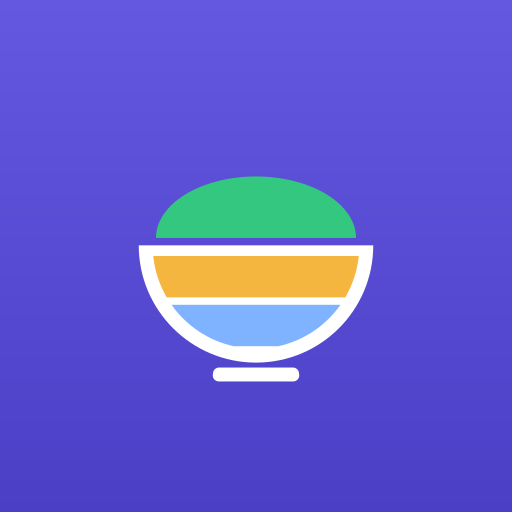
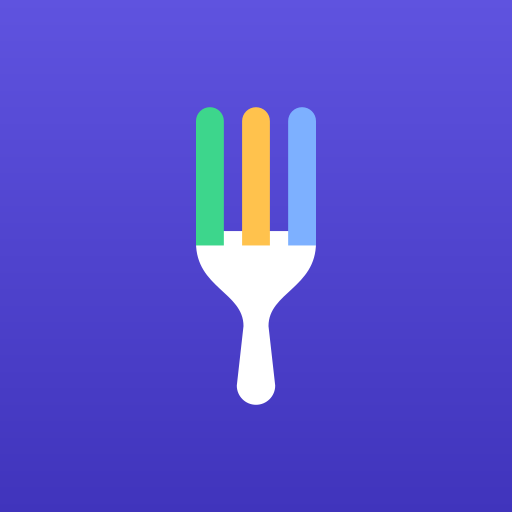
Ревизия 12: новая иконка (вилка с зубцами Б / Ж / У), виджеты 1×2 и 1×3
- Иконка: вилка, три зубца — цвета Б / Ж / У, белая на индиго; адаптивная иконка Android 8+ — векторные слои
  (bju_ic_fg / bju_ic_bg / bju_ic_mono) вместо картинок @capacitor/assets, которые лаунчер растягивал в 1,5 раза;
  монохромный слой того же размера, что цветной; векторы шаблона Capacitor удаляются; значок Android 6–7 скруглён
- Виджет 1×2: кольцо в слоте с весом (не обрезает строки при крупном шрифте), запас высоты — между блоками
- Виджет 1×3 и выше: своя раскладка v3 — подпись «осталось · из N» под кольцом, крупнее строки, отступы
  распределены равномерно вместо пустых полос сверху и снизу
- Тесты: tests/rev12.test.mjs, data.test.mjs (раскладка v3 и подпись)

Claude-Session: https://claude.ai/code/session_01U1xAriyLiBGtfoxjq7dSjT

Changed region(s): [[0.25, 0.1875, 0.75, 0.8125]]

diff --git a/native/android/BjuWidget.java b/native/android/BjuWidget.java
@@ -29,11 +29,12 @@ import java.util.Locale;
 import java.util.Map;
 
 /**
- * Виджет рабочего стола: БЖУ за сегодня. Девять раскладок под размер (ширина 1–4 × высота 1–2 ячейки):
- *   T1 1×1 — кольцо калорий (оно же — если виджет растянут в узкую высокую полоску: вытянутых раскладок нет);
+ * Виджет рабочего стола: БЖУ за сегодня. Раскладки под размер (ширина 1–4 × высота 1–2 ячейки и узкие высокие):
+ *   T1 1×1 — кольцо калорий на квадратной плашке;
  *   N2 2×1 — остаток калорий + Б / Ж / У строкой;   W3 3×1 — колонки «Осталось», Б, Ж, У с полосками;  W4 4×1 — то же + «＋»;
  *   S  2×2 — кольцо + Б / Ж / У + полоски;           M  3×2 и низкий 4×2 — шапка с «＋», кольцо, строки Б / Ж / У;
- *   L  высокий 4×2 — то же крупнее;                 Sx / Lx — увеличенные варианты, если лаунчер растянул виджет выше двух строк.
+ *   L  высокий 4×2 — то же крупнее;                 Sx / Lx — увеличенные варианты, если лаунчер растянул виджет выше двух строк;
+ *   V2 1×2 — кольцо и Б / Ж / У строками;          V3 1×3 и выше — то же с подписью под кольцом, строки крупнее.
  * Кольцо рисуется картинкой: размер числа считается от свободного места внутри, поэтому цифры не касаются кольца.
  * Цвета — из приложения: светлая и тёмная палитры сразу. При теме «Как в системе» на Android 12+ виджет
  * переключается вместе с телефоном сам (цвета «день / ночь» в RemoteViews), на старых — при каждом обновлении.
@@ -47,20 +48,22 @@ public class BjuWidget extends AppWidgetProvider {
     private static final int[] LAYOUT = {
         R.layout.bju_widget_t1, R.layout.bju_widget_n2, R.layout.bju_widget_w3, R.layout.bju_widget_w4,
         R.layout.bju_widget_s, R.layout.bju_widget_m, R.layout.bju_widget, R.layout.bju_widget_sx, R.layout.bju_widget_lx,
-        R.layout.bju_widget_v2
+        R.layout.bju_widget_v2, R.layout.bju_widget_v3
     };
-    // увеличенные варианты ведут себя как обычные; v2 (узкий высокий 1×2) — с Б / Ж / У, как 2×2
-    private static final int[] BASE = { 0, 1, 2, 3, 4, 5, 6, 4, 6, 4 };
+    // увеличенные варианты ведут себя как обычные; v2 (узкий высокий 1×2) и v3 (1×3 и выше) — с Б / Ж / У, как 2×2
+    private static final int[] BASE = { 0, 1, 2, 3, 4, 5, 6, 4, 6, 4, 4 };
     // минимальный размер (dp), с которого включается раскладка. Крупные (4×1 с «＋», высокая 4×2, увеличенная) — только
     // при полной ширине: в 3 колонки (≈270 dp) в них не помещались числа («Углев…», «съедено 28…»), там — средние раскладки
-    private static final float[][] MIN = { { 40, 40 }, { 95, 40 }, { 210, 40 }, { 290, 40 }, { 95, 115 }, { 240, 115 }, { 290, 165 }, { 95, 240 }, { 360, 240 }, { 40, 160 } };
+    private static final float[][] MIN = { { 40, 40 }, { 95, 40 }, { 210, 40 }, { 290, 40 }, { 95, 115 }, { 240, 115 }, { 290, 165 }, { 95, 240 }, { 360, 240 }, { 40, 160 }, { 40, 230 } };
     // кольцо: размер картинки (dp) и толщина линии; картинка масштабируется под место в разметке
-    private static final int[] RING = { 72, 0, 0, 0, 104, 92, 112, 132, 150, 64 };
+    private static final int[] RING = { 72, 0, 0, 0, 104, 92, 112, 132, 150, 64, 64 };
     // что есть в раскладке (по номеру раскладки): кольцо — RING > 0; колонка калорий, шапка с нормой «/ 200 г», полоски, «＋»
-    private static final boolean[] KCAL = { false, true, true, true, false, false, false, false, false, false };
-    private static final boolean[] HEAD = { false, false, false, false, false, true, true, false, true, false };
-    private static final boolean[] BARS = { false, false, true, true, true, true, true, true, true, true };
-    private static final boolean[] ADD = { false, false, false, true, false, true, true, false, true, false };
+    private static final boolean[] KCAL = { false, true, true, true, false, false, false, false, false, false, false };
+    private static final boolean[] HEAD = { false, false, false, false, false, true, true, false, true, false, false };
+    private static final boolean[] BARS = { false, false, true, true, true, true, true, true, true, true, true };
+    private static final boolean[] ADD = { false, false, false, true, false, true, true, false, true, false, false };
+    // подпись под кольцом («осталось» и «из 2920») — в высокой узкой раскладке, где в маленьком кольце подписи нет
+    private static final boolean[] CAP = { false, false, false, false, false, false, false, false, false, false, true };
 
     @Override
     public void onUpdate(Context ctx, AppWidgetManager mgr, int[] ids) {
@@ -242,6 +245,12 @@ public class BjuWidget extends AppWidgetProvider {
                 v.setImageViewBitmap(R.id.bju_w_ring, ring(now, size, stroke, frac, over, num, lab, dens));
             }
             v.setContentDescription(R.id.bju_w_ring, d.kcalGoal <= 0 ? "Съедено " + d.kcal + " ккал" : (over ? "Перебор " + (-left) : "Осталось " + left) + " ккал из " + d.kcalGoal);
+            if (CAP[layoutKind]) {
+                v.setTextViewText(R.id.bju_w_cap, lab);
+                v.setTextViewText(R.id.bju_w_cap2, d.kcalGoal > 0 ? "из " + d.kcalGoal : "за сегодня");
+                color(v, R.id.bju_w_cap, "setTextColor", d, now, p -> over ? p.danger : p.mu);
+                color(v, R.id.bju_w_cap2, "setTextColor", d, now, p -> p.mu);
+            }
         }
 
         if (hasKcal) {
@@ -295,7 +304,7 @@ public class BjuWidget extends AppWidgetProvider {
     }
 
     /**
-     * Кольцо калорий с числом внутри. Размер шрифта — от свободного места внутри кольца (около 27% диаметра),
+     * Кольцо калорий с числом внутри. Размер шрифта — от свободного места внутри кольца (около 27% диаметра с подписью, 42% без неё),
      * число при необходимости уменьшается, чтобы не доставать до линии; подпись — только если помещается.
      */
     static Bitmap ring(Pal p, int sizeDp, float strokeDp, float frac, boolean over, String num, String label, float dens) {

diff --git a/scripts/widget-layouts.py b/scripts/widget-layouts.py
@@ -3,7 +3,7 @@
 Запуск: python3 scripts/widget-layouts.py
 
 Раскладки (ширина × высота в ячейках):
-  t1  1×1 — кольцо калорий;  v2  1×2 и выше в одну колонку — кольцо и Б / Ж / У строками с полосками;                       n2  2×1 — остаток калорий слева, Б / Ж / У столбиком справа;
+  t1  1×1 — кольцо калорий;  v2  1×2 в одну колонку — кольцо и Б / Ж / У строками с полосками;  v3  1×3 и выше — то же с подписью под кольцом;                       n2  2×1 — остаток калорий слева, Б / Ж / У столбиком справа;
   w3  3×1 — колонки «Осталось», Б, Ж, У с полосками; w4  4×1 — то же + «＋»;
   s   2×2 — кольцо + Б / Ж / У + полоски (вытянутых узких раскладок нет: узкий высокий виджет показывает квадрат 1×1);
   m   3×2 и низкий 4×2 — шапка с «＋», кольцо и строки Б / Ж / У;
@@ -75,14 +75,26 @@ out = {}
 # в узкий высокий (1×2, 1×3…), это выглядит как обычный 1×1 посередине ячеек, а не как вытянутая белая полоса
 TILE = f'<ImageView {A}id="@+id/bju_w_bg" {A}layout_width="match_parent" {A}layout_height="match_parent" {A}scaleType="fitCenter" {A}src="@drawable/bju_widget_tile" {A}importantForAccessibility="no"/>'
 out['bju_widget_t1'] = root(ring(), "vertical", "6dp", TILE)
-# 1×2 (узкий высокий): кольцо сверху на всю ширину, под ним Б / Ж / У строками — буква цветом, число справа, тонкая полоска.
-# Всё по центру и с одинаковыми отступами; при большей высоте кольцо растёт, строки остаются внизу
-def vrow(m):
-    return LL(LL(tv(f"bju_{m}_lbl", SHORT[m], 12, COL[m], True, extra=f'{A}layout_marginEnd="4dp"') + val(f"bju_{m}_val", "0", 13, 9, w="0dp", grav="end", extra=W1), "horizontal", gravity="center_vertical")
-              + mbar(m, 4, 3), extra=f'{A}layout_marginTop="7dp"')
-SP = f'<View {A}layout_width="match_parent" {A}layout_height="0dp" {A}layout_weight="1"/>'
-# кольцо — квадрат по ширине (не больше 96 dp); вся группа стоит по центру: в высоком виджете нет пустоты между кольцом и строками
-out['bju_widget_v2'] = root(SP + ring("match_parent", "wrap_content", f'{A}maxHeight="96dp"') + LL(''.join(vrow(m) for m in M3), extra=f'{A}layout_marginTop="4dp"') + SP, "vertical", "12dp 12dp")
+# Узкие высокие (1×2, 1×3 и выше): кольцо сверху, под ним Б / Ж / У строками — буква цветом, число справа, полоска.
+# Кольцо не бывает шире ячейки (≈50 dp). Раньше вся группа стояла по центру между двумя равными распорками, и в 1×3 весь
+# запас высоты (≈110 dp) уходил в пустые полосы сверху и снизу. Теперь запас делится так:
+#  - кольцо стоит в «слоте» с весом: при нехватке места оно уменьшается само (строки не обрезаются и при крупном шрифте
+#    в настройках телефона), а лишнее место слота ложится поровну над кольцом и под ним;
+#  - остальное — распорки между блоками (под подписью, между строками, снизу), поэтому отступы растут вместе с высотой
+#    равномерно, а не скапливаются по краям.
+def vrow(m, lab=12, num=13, bh=4, bm=3):
+    return LL(LL(tv(f"bju_{m}_lbl", SHORT[m], lab, COL[m], True, extra=f'{A}layout_marginEnd="4dp"') + val(f"bju_{m}_val", "0", num, 9, w="0dp", grav="end", extra=W1),
+                 "horizontal", gravity="center_vertical") + mbar(m, bh, bm))
+def SPw(w): return f'<View {A}layout_width="match_parent" {A}layout_height="0dp" {A}layout_weight="{w}"/>'
+def SPd(h): return f'<View {A}layout_width="match_parent" {A}layout_height="{h}dp"/>'
+def RING_W(w): return ring("match_parent", "0dp", f'{A}layout_weight="{w}"')
+# 1×2 (высота 160–229 dp): кольцо и три строки
+out['bju_widget_v2'] = root(RING_W(1) + SPd(6) + vrow('p') + SPd(7) + vrow('f') + SPd(7) + vrow('c') + SPw(.1), "vertical", "12dp")
+# 1×3 и выше (от 230 dp): под кольцом подпись «осталось» / «перебор» и норма «из 2920»; строки крупнее, полоски толще
+CAP = LL(tv("bju_w_cap", "осталось", 11, MU, True, extra=f'{A}gravity="center"') + tv("bju_w_cap2", "из 0", 10, MU, extra=f'{A}gravity="center" {A}layout_marginTop="1dp"'),
+         gravity="center_horizontal", extra=f'{A}layout_marginTop="4dp"')
+R3 = lambda m: vrow(m, 13, 15, 5, 4)
+out['bju_widget_v3'] = root(RING_W(2.2) + CAP + SPd(10) + SPw(.6) + R3('p') + SPd(10) + SPw(.35) + R3('f') + SPd(10) + SPw(.35) + R3('c') + SPw(.5), "vertical", "14dp")
 # 2×1 — слева остаток калорий крупно, справа столбик Б / Ж / У (буква и число в строку) — две равные половины
 def mstack(k=1.0):
     return ''.join(LL(tv(f"bju_{m}_lbl", SHORT[m], round(12.5 * k), COL[m], True, extra=f'{A}layout_marginEnd="6dp"')

diff --git a/README.md b/README.md
@@ -16,7 +16,7 @@
   - `BjuWidget.java` — виджет рабочего стола;
   - `MainActivity.java` — регистрирует плагин;
   - `res/` — разметка виджета, ярлыки быстрых действий, иконки и строки (всё с префиксом `bju_`).
-- `scripts/icon-svg.mjs` — **исходник иконки приложения**: миска, наполненная тремя слоями Б / Ж / У (зелёная горка, жёлтый и синий слои — цвета нутриентов на экране), рисуется кодом. Крупные простые формы без мелких деталей — узнаётся и в 48 px. Три варианта оформления: `dark`, `light`, `accent` (сейчас выбран `accent`: белая миска на индиго — цвет акцента по умолчанию) — поле `"icon"` в `package.json`. `npm run icons` (`scripts/icons.mjs`) делает из него все иконки: favicon, PWA, иконку Android (адаптивную — лаунчер сам задаёт форму), splash **заставку при запуске** (миска без фона в `res/drawable-nodpi/bju_splash_logo.png`: `bju_splash` ставит его по центру фиксированного размера на фоне иконки, а `patch-android.mjs` подключает эту заставку вместо растягиваемой `splash.png` и задаёт тот же значок и фон системной заставке Android 12+; значок не растягивается ни на каком экране) и и **монохромный слой для «тематических значков» Android 13+**: если в настройках обоев включены тематические значки, иконка перекрашивается в цвета обоев и темы (светлой/тёмной).
+- `scripts/icon-svg.mjs` — **исходник иконки приложения**: вилка, у которой три зубца — Б, Ж и У (зелёный, жёлтый, синий — цвета нутриентов на экранах; зубцы — те же капсулы, что полоски в приложении), рисуется кодом. Один простой силуэт — узнаётся и в 32 px. Три варианта: `accent` (белая вилка на индиго — акцент приложения; выбран), `dark`, `light` — поле `"icon"` в `package.json`. Адаптивная иконка Android 8+ — **векторные слои** `res/drawable/bju_ic_fg.xml`, `bju_ic_bg.xml`, `bju_ic_mono.xml` (чёткие на любой плотности; `patch-android.mjs` пишет их в `mipmap-anydpi-v26/ic_launcher*.xml` вместо картинок @capacitor/assets, которые лаунчер растягивал в 1,5 раза, и удаляет векторы шаблона Capacitor); картинки `mipmap-*/ic_launcher*.png` остаются для Android 6–7. `npm run icons` (`scripts/icons.mjs`) делает из него все иконки: favicon, PWA, иконку Android (адаптивную — лаунчер сам задаёт форму), splash **заставку при запуске** (вилка без фона в `res/drawable-nodpi/bju_splash_logo.png`: `bju_splash` ставит его по центру фиксированного размера на фоне иконки, а `patch-android.mjs` подключает эту заставку вместо растягиваемой `splash.png` и задаёт тот же значок и фон системной заставке Android 12+; значок не растягивается ни на каком экране) и и **монохромный слой для «тематических значков» Android 13+**: если в настройках обоев включены тематические значки, иконка перекрашивается в цвета обоев и темы (светлой/тёмной).
 - `scripts/shortcut-icons.py` — значки ярлыков (Завтрак, Обед, Ужин, Перекус, Вес): мягкий цветной фон и линейный символ, на Android 8+ — адаптивные.
 - `public/` — файлы, которые копируются в сборку как есть (manifest, service worker, иконки).
 - `scripts/patch-android.mjs` — донастройка Android-проекта: номер версии, нативный код, режим клавиатуры, портретная ориентация.
@@ -87,7 +87,7 @@ Android разрешает обновить приложение только AP
 На GitHub тесты запускаются перед сборкой APK: если хоть один упал, APK не собирается и релиз не создаётся (ошибка видна в журнале шага **Run tests**). Локально нужен Chromium: `npx playwright install chromium` (или путь в `CHROMIUM_PATH`).
 
 ## Виджет и быстрые действия
-- **Виджет** «БЖУ за сегодня» (долгое нажатие на рабочем столе → Виджеты), размер от 1×1 до 4×2 (если лаунчер позволяет растянуть выше — увеличенные раскладки). Раскладки генерирует `scripts/widget-layouts.py`, рисует `BjuWidget.java`: 1×1 — кольцо калорий с остатком на квадратной плашке; 1×2 и выше в одну колонку — кольцо и под ним Б / Ж / У строками с полосками, всё по центру; 2×1 — слева остаток калорий, справа Б / Ж / У столбиком; 3×1 и 4×1 — крупный остаток («2107» / «+9021 перебор») и колонки Б, Ж, У со «съедено» и полосками (на 4×1 ещё «＋»); 2×2 — кольцо и Б / Ж / У; 3×2 и 4×2 — «Съедено X из Y», «＋», кольцо и строки «Белки 162 / 200» (крупные раскладки — только на полную ширину, в 3 колонки — средняя). Граммы — целые, названия не обрезаются, числа подстраиваются под место (`autoSizeTextType`, Android 8+). В превью списка виджетов — «964 осталось» в кольце и «＋» цветом акцента. Кольцо рисуется картинкой: размер числа считается от свободного места внутри (≈27 % диаметра с подписью, ≈42 % без неё — в малых кольцах 1×1 и 1×2 число крупное; длинное число уменьшается, чтобы не касаться линии), подпись «осталось» — только если помещается; при переборе — «+N» и красный цвет. Цвета — из приложения: оно передаёт светлую и тёмную палитры; при теме «Как в системе» на Android 12+ виджет переключается вместе с телефоном сам, на старых — при обновлении. Скругление на Android 12+ — системное. **«＋» на виджете делает то же, что «＋» в панели** (настройка «Кнопка «＋» в панели»; если кнопка скрыта — приём пищи по времени), ссылка `bju://fab`. В полночь виджет сам обновляется и показывает новый пустой день (будильник без точного времени — система может сдвинуть на пару минут).
+- **Виджет** «БЖУ за сегодня» (долгое нажатие на рабочем столе → Виджеты), размер от 1×1 до 4×2 (если лаунчер позволяет растянуть выше — увеличенные раскладки). Раскладки генерирует `scripts/widget-layouts.py`, рисует `BjuWidget.java`: 1×1 — кольцо калорий с остатком на квадратной плашке; 1×2 — кольцо и под ним Б / Ж / У строками с полосками; 1×3 и выше (от 230 dp высоты) — то же, под кольцом подпись «осталось · из 2920», строки крупнее. В узких высоких раскладках кольцо стоит в слоте с весом (при нехватке места уменьшается, строки не обрезаются и при крупном шрифте), а запас высоты делят распорки между блоками — отступы растут равномерно, а не пустыми полосами сверху и снизу; 2×1 — слева остаток калорий, справа Б / Ж / У столбиком; 3×1 и 4×1 — крупный остаток («2107» / «+9021 перебор») и колонки Б, Ж, У со «съедено» и полосками (на 4×1 ещё «＋»); 2×2 — кольцо и Б / Ж / У; 3×2 и 4×2 — «Съедено X из Y», «＋», кольцо и строки «Белки 162 / 200» (крупные раскладки — только на полную ширину, в 3 колонки — средняя). Граммы — целые, названия не обрезаются, числа подстраиваются под место (`autoSizeTextType`, Android 8+). В превью списка виджетов — «964 осталось» в кольце и «＋» цветом акцента. Кольцо рисуется картинкой: размер числа считается от свободного места внутри (≈27 % диаметра с подписью, ≈42 % без неё — в малых кольцах 1×1 и 1×2 число крупное; длинное число уменьшается, чтобы не касаться линии), подпись «осталось» — только если помещается; при переборе — «+N» и красный цвет. Цвета — из приложения: оно передаёт светлую и тёмную палитры; при теме «Как в системе» на Android 12+ виджет переключается вместе с телефоном сам, на старых — при обновлении. Скругление на Android 12+ — системное. **«＋» на виджете делает то же, что «＋» в панели** (настройка «Кнопка «＋» в панели»; если кнопка скрыта — приём пищи по времени), ссылка `bju://fab`. В полночь виджет сам обновляется и показывает новый пустой день (будильник без точного времени — система может сдвинуть на пару минут).
 - **Быстрые действия** — долгое нажатие на иконку приложения: Завтрак, Обед, Ужин, Перекус (ближайший по времени) и **Вес** (только если отслеживание веса включено; если выключить, закреплённый ярлык «Вес» становится неактивным). Сразу открывается добавление в выбранный приём пищи или ввод веса на сегодня.
 - Оба механизма открывают ссылку `bju://add?m=…` (`0`–`5` — номер приёма пищи, `snack` — ближайший перекус, `auto` — по времени); ярлык веса — `bju://weight`.
 
